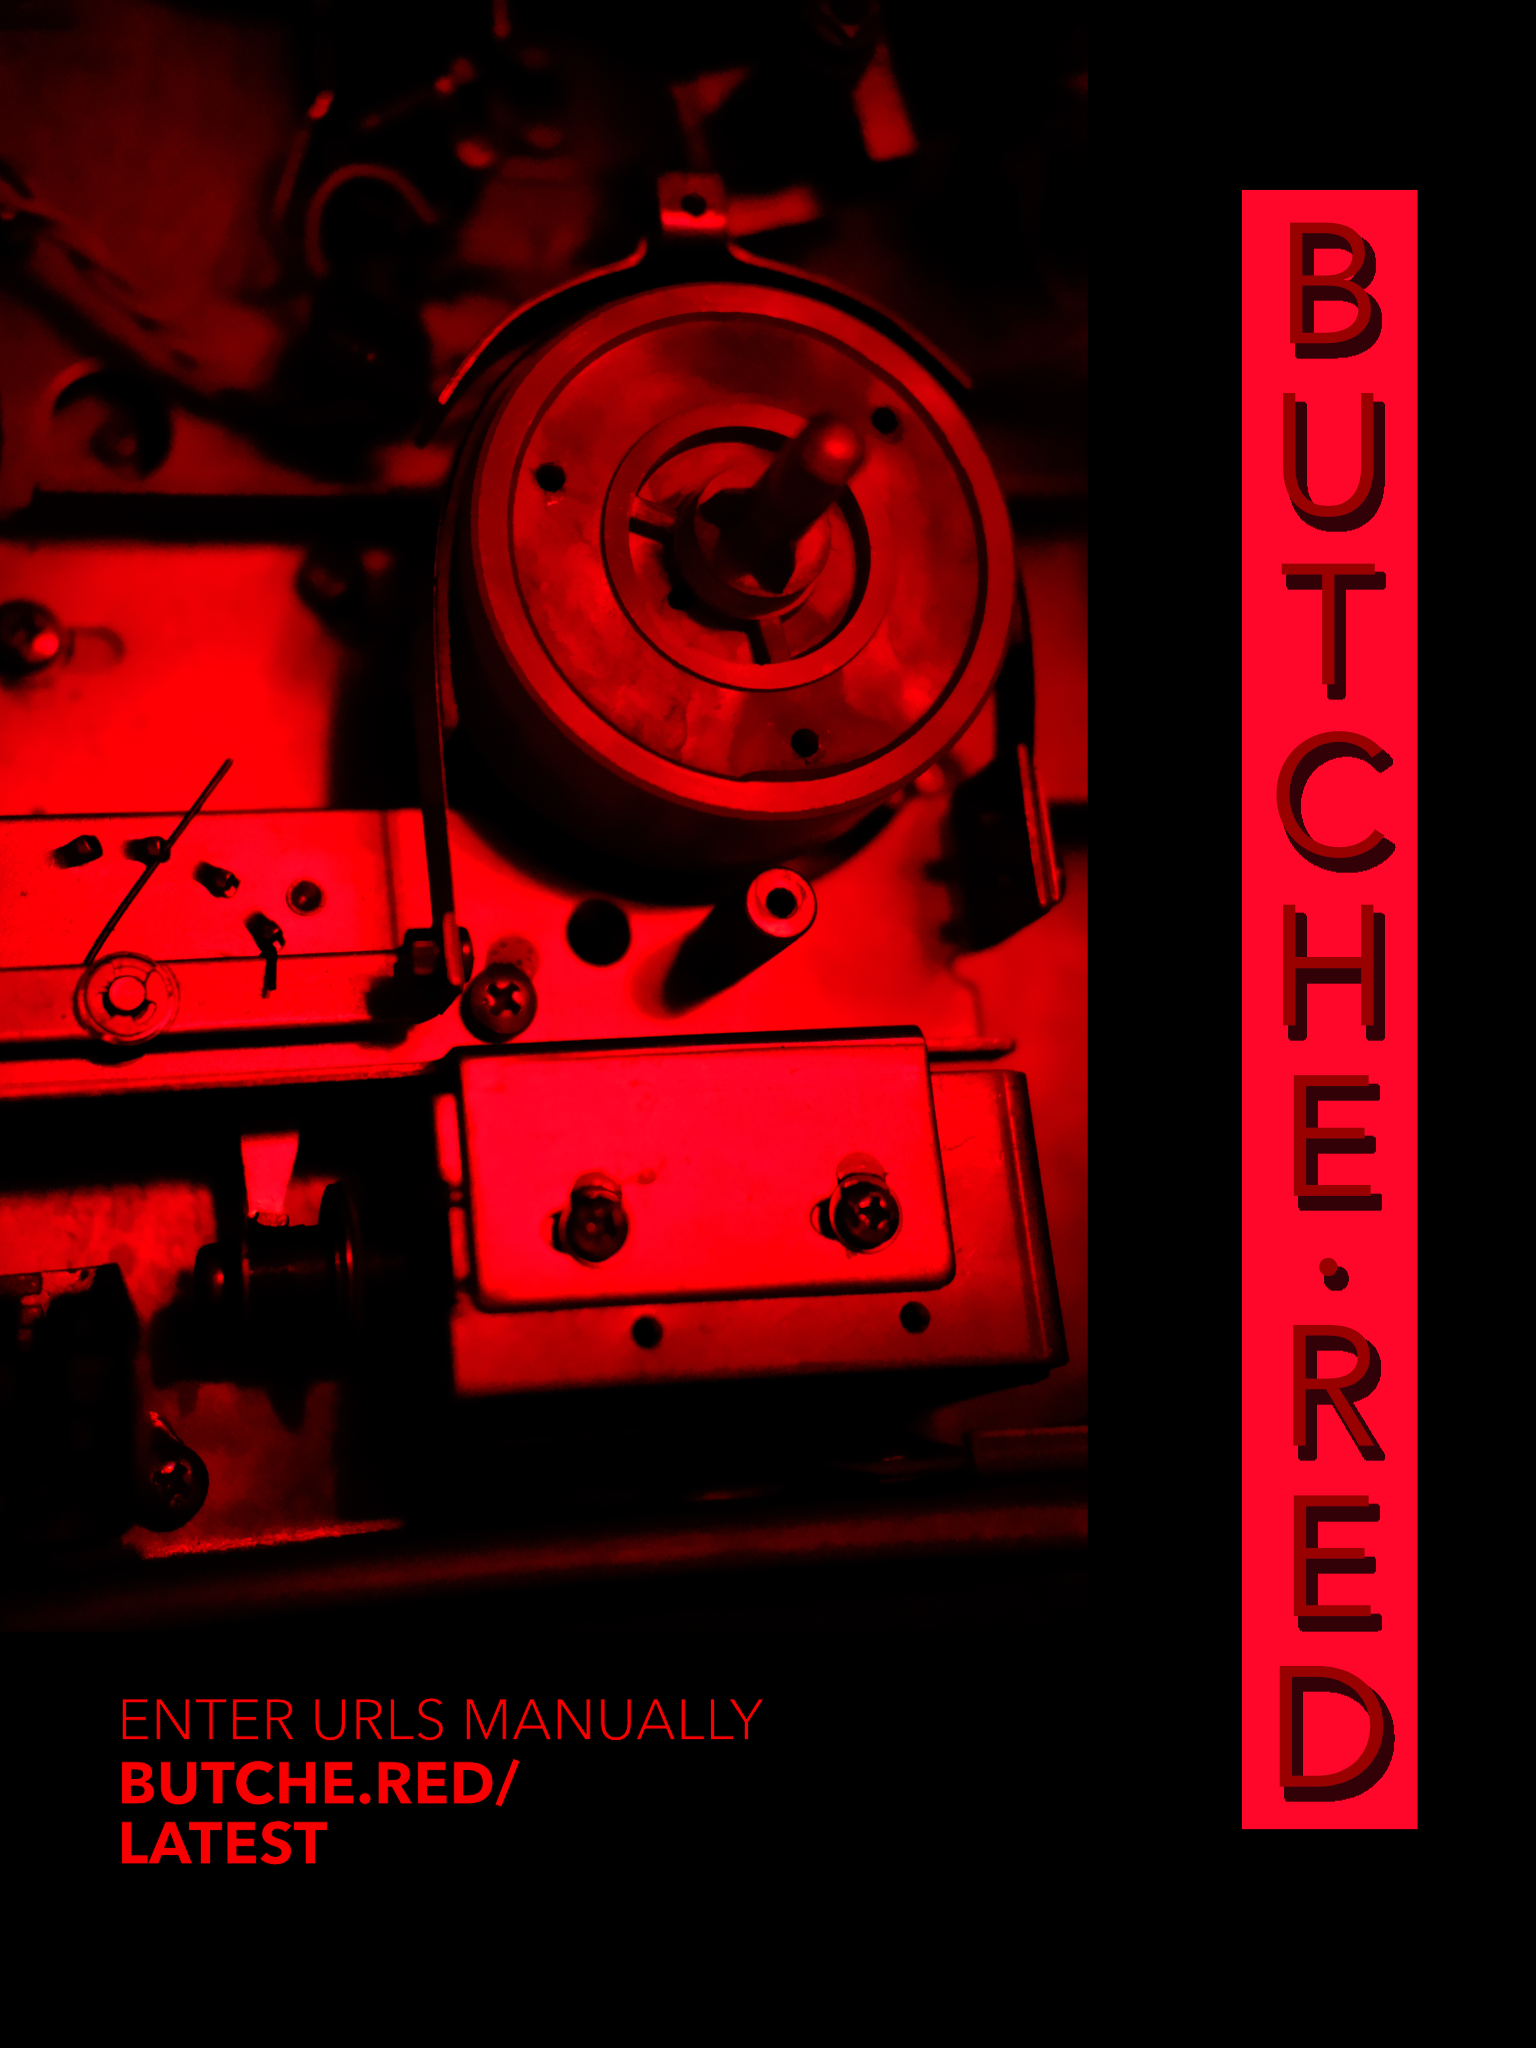
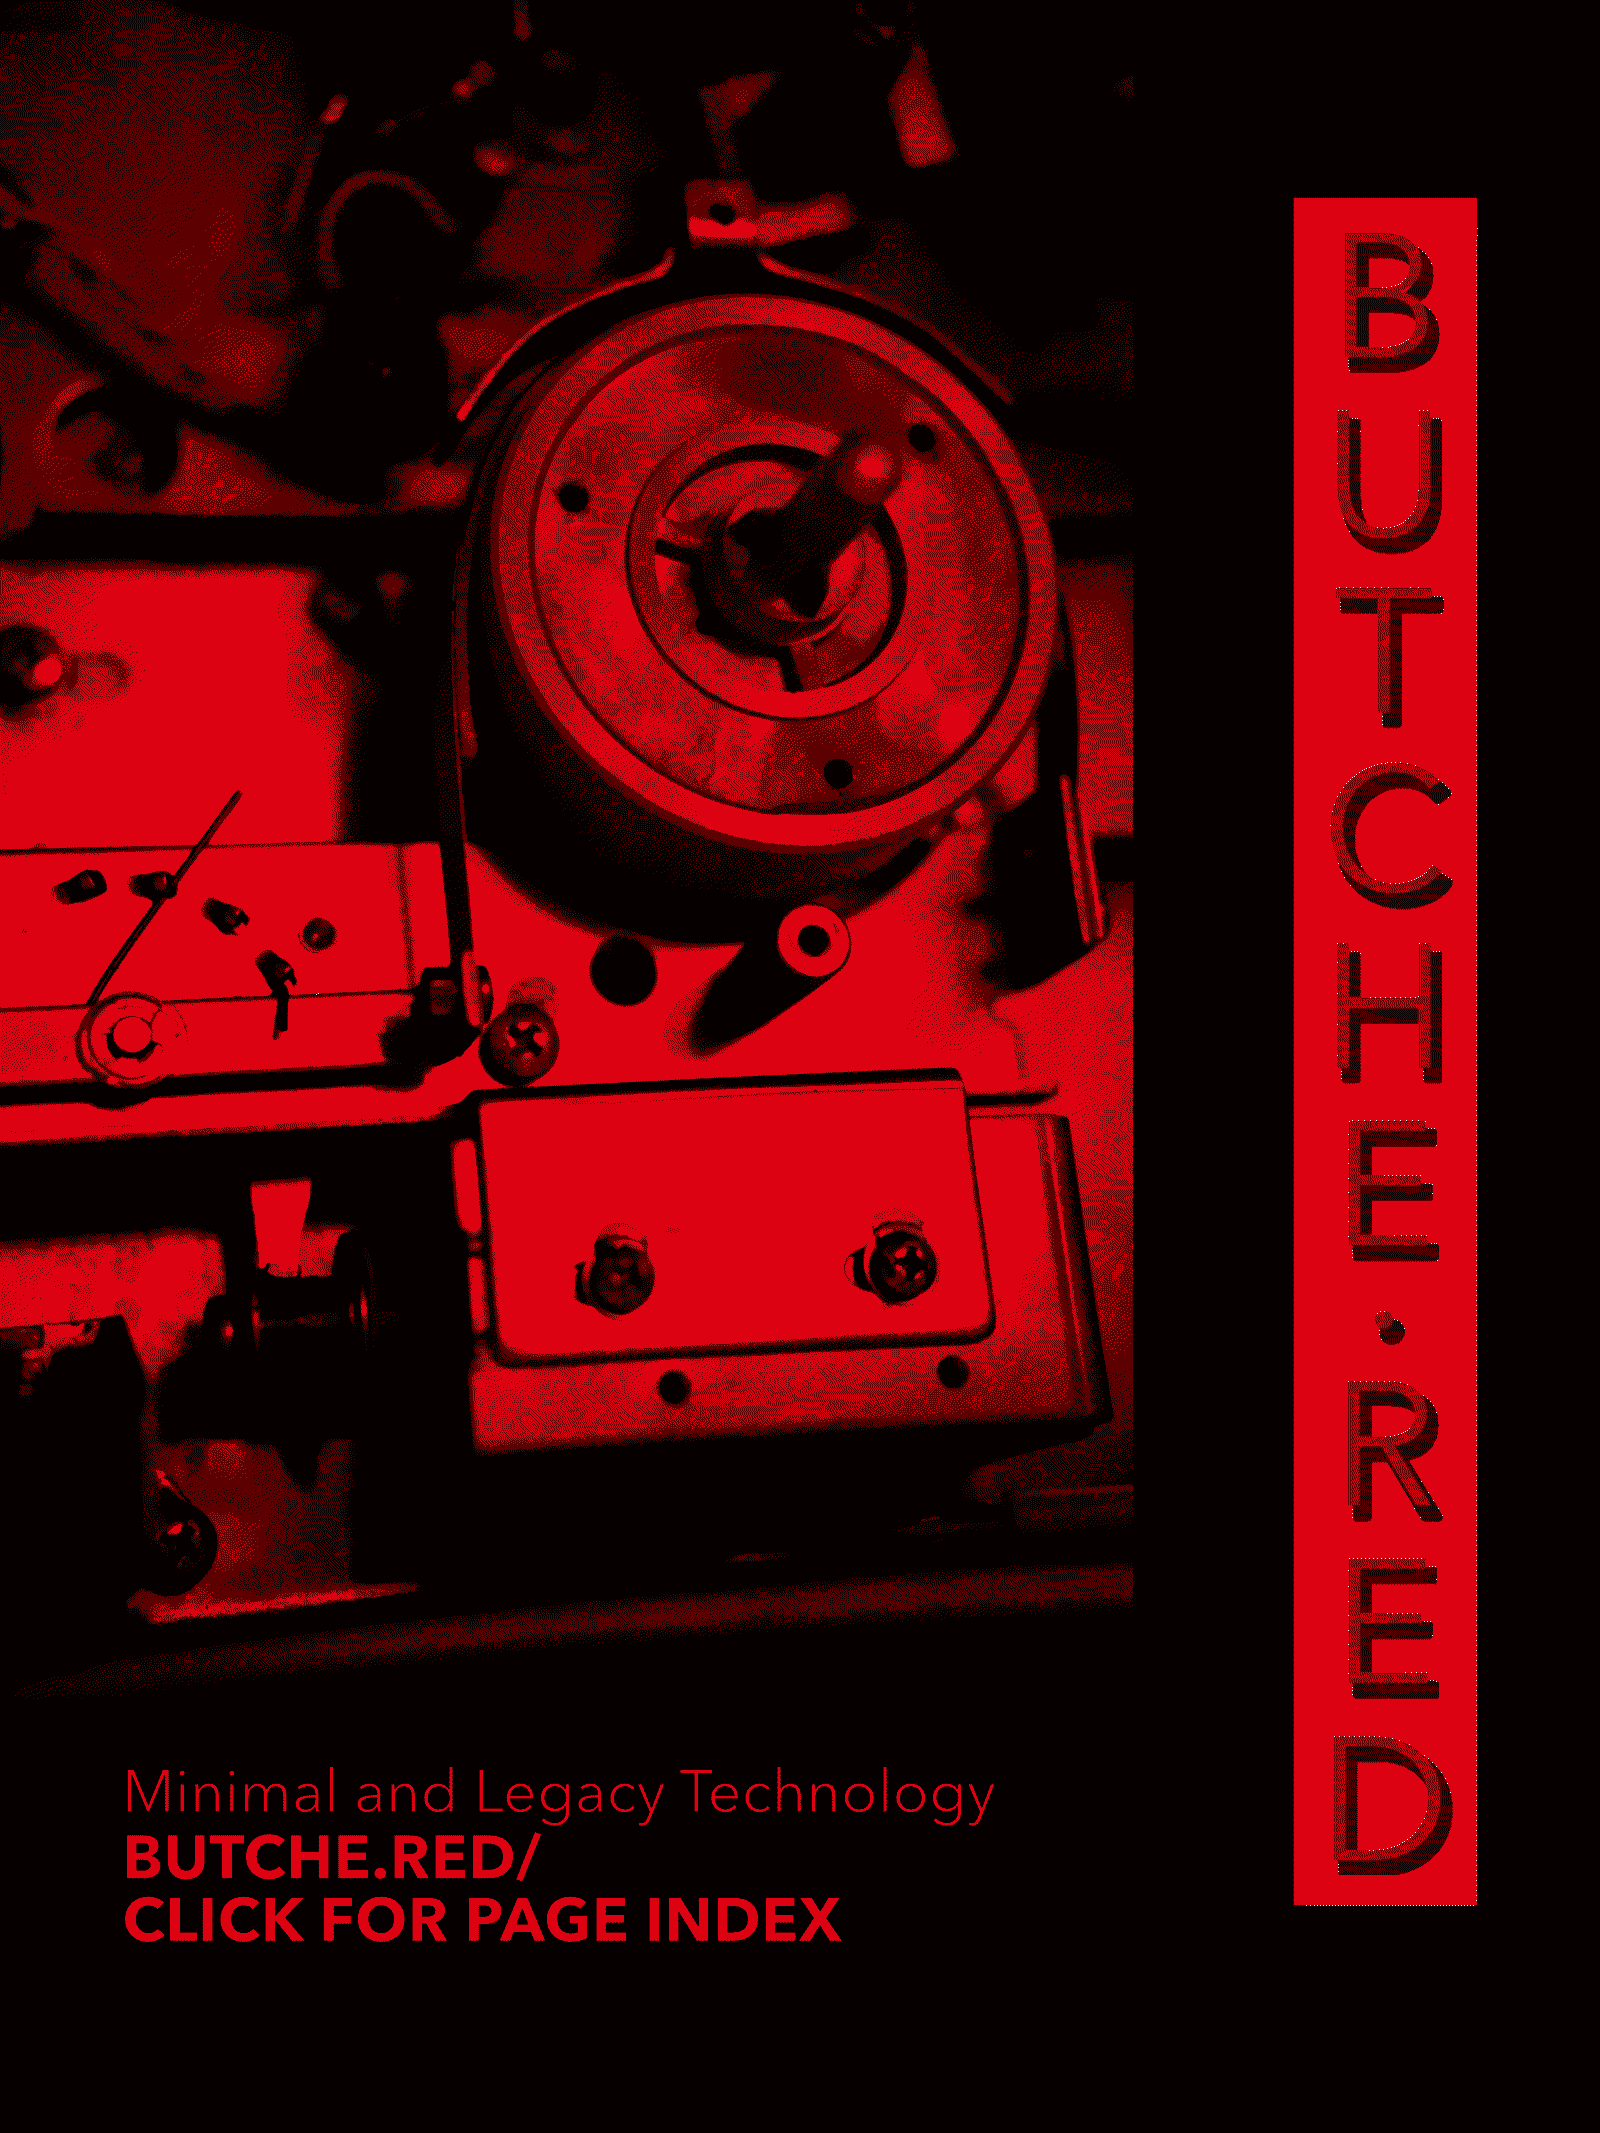
reduce file sizes and improve layouts

diff --git a/page_index.css b/page_index.css
@@ -1,15 +1,25 @@
 /* TODO: right side of list is misaligned with search bar */
 * {
-    background-color:#2d2a2a;
+    /*background-color:#2d2a2a;*/
   }
-  
+
   #main {
     max-width: 500px;
     margin: auto;
   }
 
+div{
+  background-color:black;
+  padding-top:149;
+  padding-right:48px;
+  text-align: center;
+  background-image: url('custom_images/page_index.jpg');
+  background-position:top;
+  background-repeat:no-repeat;
+}
+
 a:link {
-  color: red;
+  color: rgb(86, 48, 48);
 }
 
 a:visited {
@@ -17,5 +27,15 @@ a:visited {
 }
 
 ul {
-  list-style-type: none; /* Remove bullets */
+  list-style-type: none; /* Remove bullets */;
+  width:auto;
+  height:100%;
+  display:block;
+  margin:auto;
+  padding-bottom:380px;
+}
+
+li {
+  font-family: Verdana, sans-serif;
+  font-size: 27px;
 }

diff --git a/5_free_earth_view_source.html b/5_free_earth_view_source.html
@@ -1,8 +1,9 @@
 <html>
 <head>
 <meta name="viewport" content="width=device-width, initial-scale=1.0">
+<link rel="stylesheet" href="5_free_earth_view_source.css">
 </head>
-<body style="background-color:black">
-<img style="background:url(custom_images/vert.gif);background-size: contain;background-repeat:no-repeat;"src="custom_images/transparmask2.png" alt="PAGE3" style="width:auto;height:100%;display:block;margin:auto;">
+<body style="background-color:black; text-align:center">
+<a href=page_index.html><img style="background:url(custom_images/vert.gif);background-size: contain;background-repeat:no-repeat;"src="custom_images/transparmask2.png" alt="PAGE3" style="width:auto;height:100%;display:block;margin:auto;"></a>
 </body>
 </html>

diff --git a/5_free_earth_view_source.css b/5_free_earth_view_source.css
@@ -1,0 +1,5 @@
+@media only screen and (max-width: 600px)  {
+  img{
+    width: 140%
+  }
+}

diff --git a/main.css b/main.css
@@ -1,0 +1,5 @@
+@media only screen and (max-width: 600px)  {
+  img{
+    width: 100%
+  }
+}
